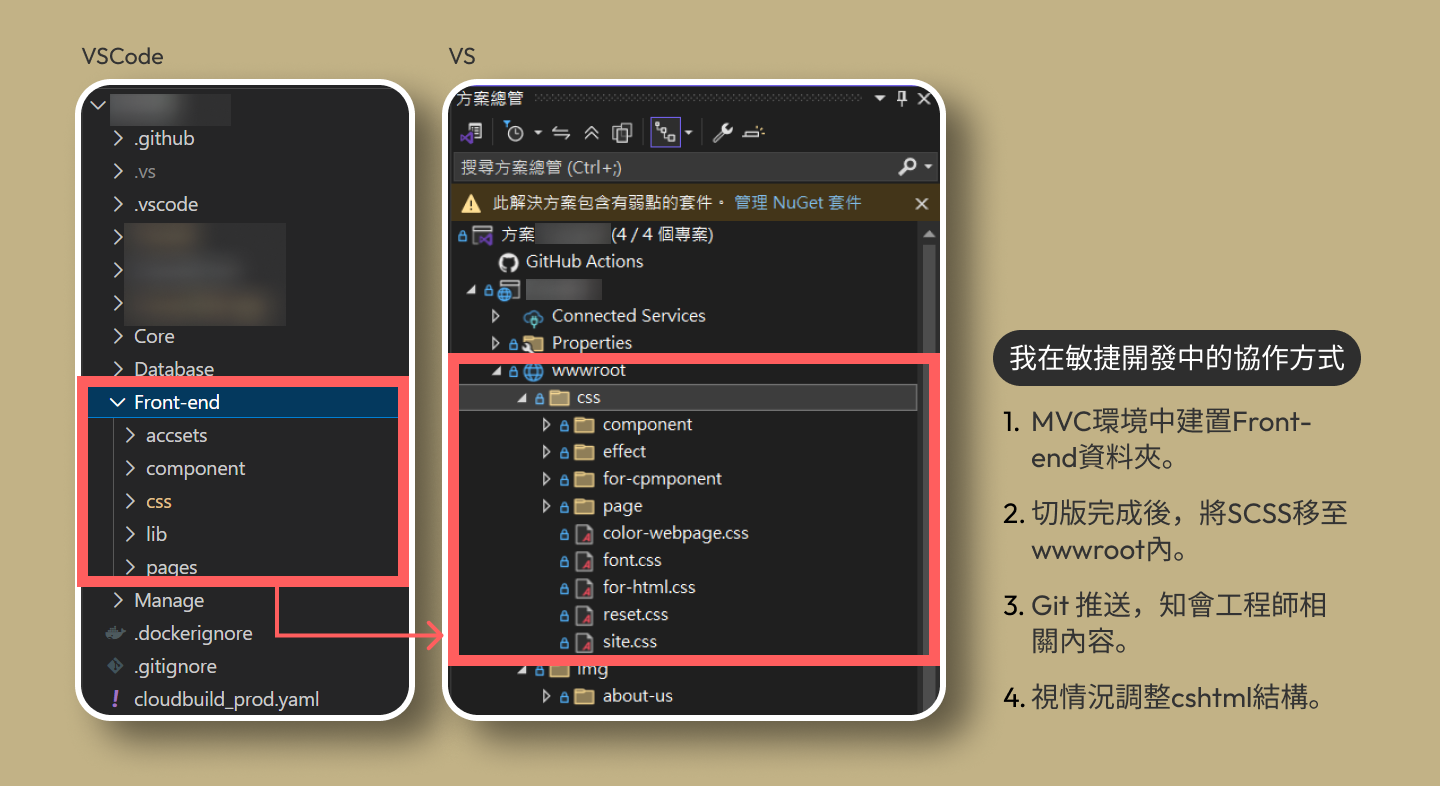
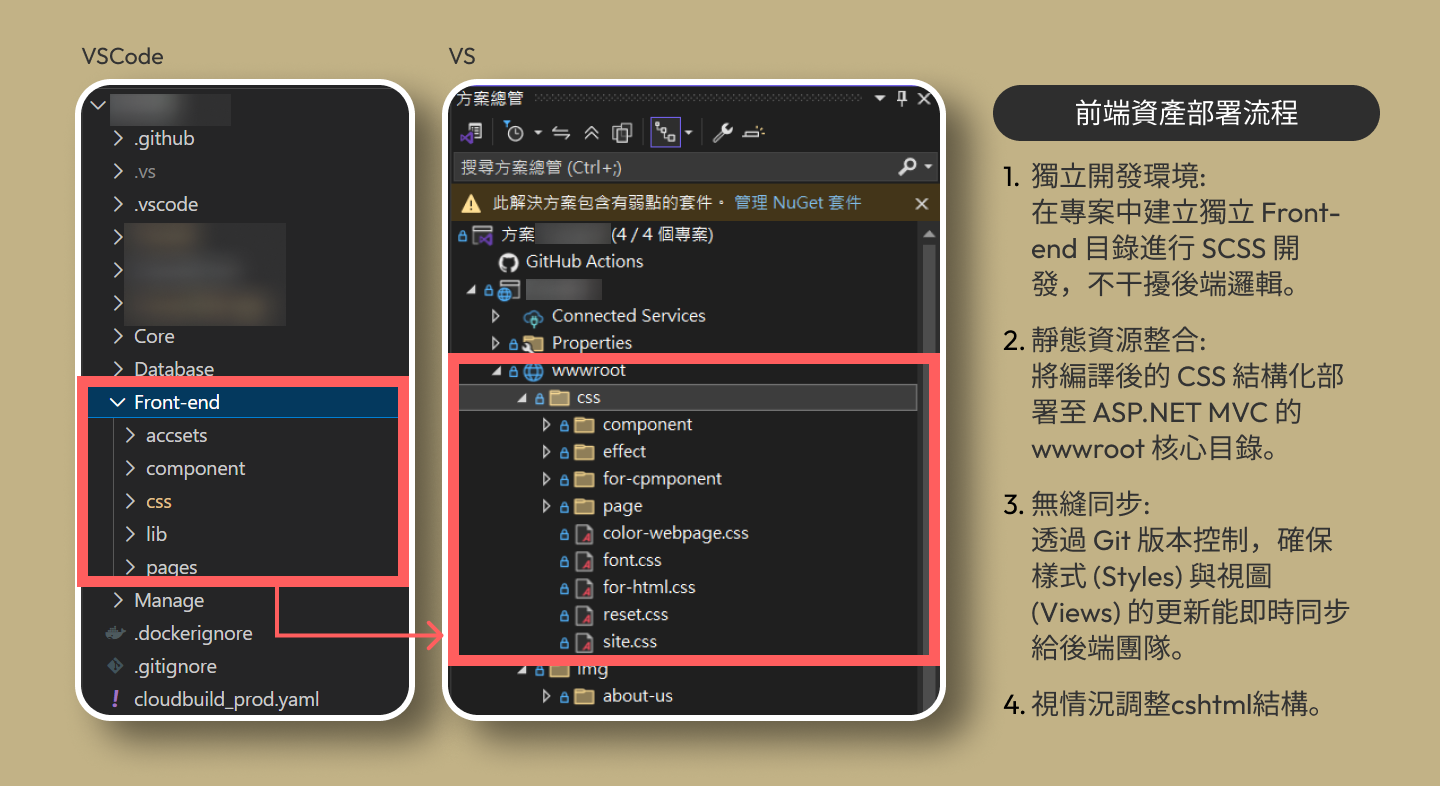
feat: 圖文修改 c

Changed region(s): [[0.6875, 0.0916, 0.9688, 0.916]]

diff --git a/x_vnriwc/index.html b/x_vnriwc/index.html
@@ -298,7 +298,7 @@
                                 </p>
                                 <div class="box pl-10 pt-05 pb-05">
                                     <p class="eng-text nu">1.</p>
-                                    <p>釐清本質: <br>建議保留「通知中心」的概念，但將其整合進「會員中心」的頁面流程中，確保在電腦與手機上都能有一致且流暢的體驗。</p>
+                                    <p>釐清本質: <br>向客戶解釋「網頁 (Web)」與「應用程式 (App)」在技術底層與使用者情境上的根本差異。</p>
                                 </div>
                                 <div class="box pl-10 pt-10 pb-05">
                                     <p class="eng-text nu">2.</p>
@@ -336,14 +336,14 @@
                         <p class="cb-description-title">對應現實情況，解決痛點</p>
                     </div>
                     <p>
-                        針對原本混亂的推播需求，我引入了系統化的分類邏輯，將零散的功能收斂為四大維度，並與後端工程師對焦資料庫結構:
+                        針對原本混亂的推播需求，我引入了系統化的分類邏輯，將零散的功能收斂為三大維度，並與後端工程師對焦資料庫結構:
                     </p>
                     <div class="p-list-zone">
                         <ul class="p-list-container -w100">
                             <li class="item -g-col-1">
                                 <div class="box pl-10 pt-05 pb-05">
                                     <p class="eng-text alphabetical-order dot">●</p>
-                                    <p>訊息類型: <br>區分「系統自動觸發」與「手動推播」</p>
+                                    <p>訊息類型: <br>區分「系統自動觸發」與「手動推播」。</p>
                                 </div>
 
                                 <div class="box pl-10 pt-10 pb-05">
@@ -462,8 +462,9 @@
                                 </div>
                                 <div class="box pl-10 pt-10 pb-05">
                                     <p class="eng-text alphabetical-order dot">●</p>
-                                    <p>前端協作: <br>我直接HTML切版與調整.cshtml部分結構，使設計排版具有一致性。
-                                        同時以設計系統為準則，修改Select2，這確保了從第三方套件到客製化元件，視覺還原度皆能達到 100%。</p>
+                                    <p>前端協作: <br>我直接負責 HTML切版與.cshtml 結構調整(
+                                        視情況)，使設計排版具有一致性。
+                                        同時以 Design System 為準則，深度客製化 Select2 等第三方套件樣式，實現 100% 的視覺還原度。</p>
                                 </div>
                                 <div class="box pl-10 pt-10 pb-05">
                                     <p class="eng-text alphabetical-order dot">●</p>
